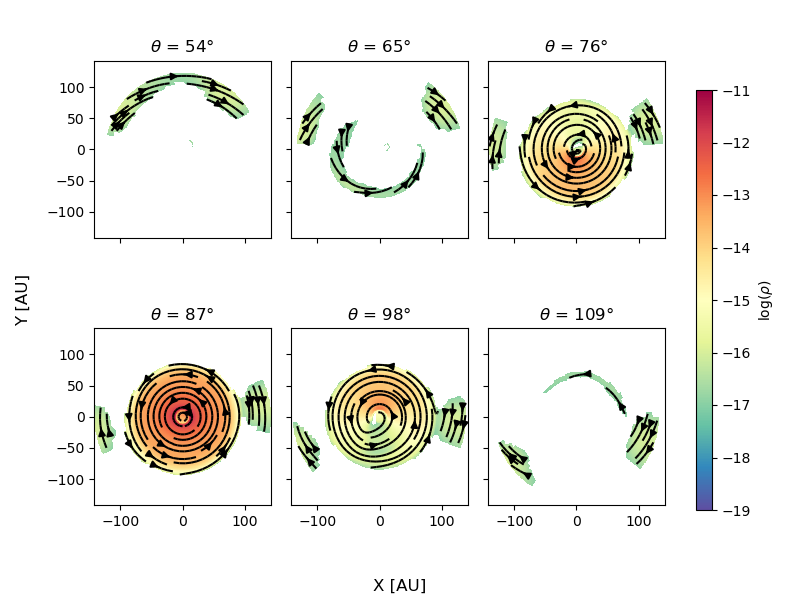
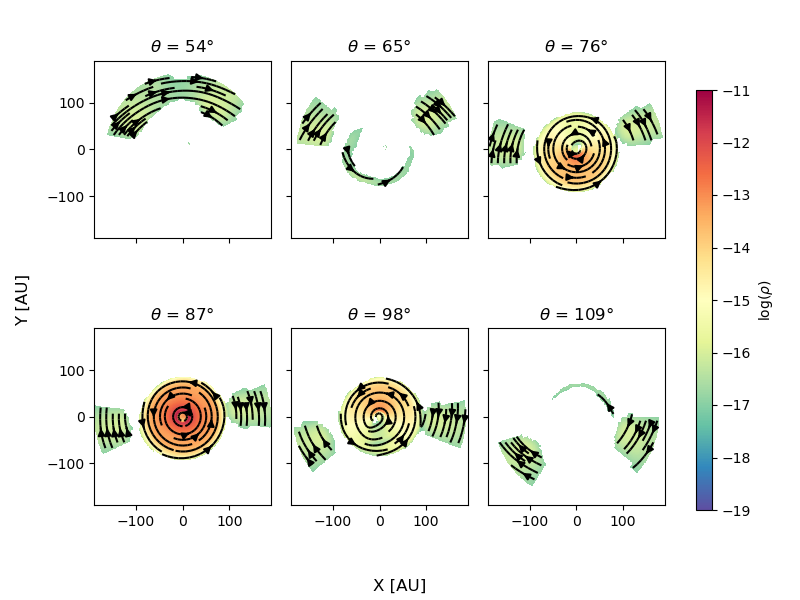
vel streamlines plots modified

diff --git a/analysis.py b/analysis.py
@@ -675,9 +675,9 @@ def calc_whirl(Lx_tot, Ly_tot, Lz_tot, ini_cloud_phi):
 
 def main():
 
-    folder = Path("../cloud_disk_it450_retro_rotY45/")                        # Folder with the output files
-    # folder = Path("../fargo3d/outputs/cloud_disk_it450_retro_rotY45")         # Folder with the output files (BinAC2)
-    fig_imgs = Path("cloud_disk_it450_retro_rotY45/imgs/")                    # Folder to save images
+    folder = Path("../cloud_disk_it450_rotX45/")                        # Folder with the output files
+    # folder = Path("../fargo3d/outputs/cloud_disk_it450_rotX45")         # Folder with the output files (BinAC2)
+    fig_imgs = Path("cloud_disk_it450_rotX45/imgs/")                    # Folder to save images
     it = 450                                                       # FARGO snapshot of interest
     sim_name = str(fig_imgs).split('/')[0]                         # Simulation name (for plot labels)
     
@@ -759,7 +759,7 @@ def main():
 
     # 2D visualizations
     # irad = -1
-    irad = np.where(domains["r"]/au < 350)[0][-1]
+    irad = np.where(domains["r"]/au < 200)[0][-1]
     iphi = 0
     itheta = int(7*len(domains["theta"])/15)
     # print(itheta)
@@ -817,9 +817,9 @@ def main():
     # plotly_quiver3D(X_c[warp_ids][stagger_ids]/au, Y_c[warp_ids][stagger_ids]/au, Z_c[warp_ids][stagger_ids]/au, (vx_c[warp_ids]/vsph.mean())[stagger_ids], (vy_c[warp_ids]/vsph.mean())[stagger_ids], (vz_c[warp_ids]/vsph.mean())[stagger_ids], savefig=False, figfolder=f'{fig_imgs}/plotly_vel_thresh{warp_thresh}_it{it}.png', showfig=True)
 
     # Disk velocity streamline plots at different theta values
-    # targets = np.array([60, 70, 80, 90, 100, 110])   
-    # ithetas = [np.abs(np.rad2deg(domains["theta"]) - t).argmin() for t in targets]
-    # velocity_streamlines(X_c, Y_c, vx_c_warp, vy_c_warp, rho_c_warp, ithetas, irad, savefig=True, figfolder=f'{fig_imgs}/vel_streamlines_thresh{warp_thresh}_it{it}.png', showfig=True)
+    targets = np.array([60, 70, 80, 90, 100, 110])   
+    ithetas = [np.abs(np.rad2deg(domains["theta"]) - t).argmin() for t in targets]
+    velocity_streamlines(X_c, Y_c, vx_c_warp, vy_c_warp, rho_c_warp, ithetas, irad, savefig=True, figfolder=f'{fig_imgs}/vel_streamlines_thresh{warp_thresh}_it{it}.png', showfig=True)
 
     # quiver_plot_3d(X_c[warp_ids]/au, Y_c[warp_ids]/au, Z_c[warp_ids]/au, vx_c[warp_ids], vy_c[warp_ids], vz_c[warp_ids], stagger=10, length=30, title=f"{sim_name}: velocities {int(calc_simtime(it))} kyr", colorbarlabel="velocities", savefig=False, figfolder=f'../warp_vel_thresh{warp_thresh}_it{it}.png', azim=-90, elev=-178, logmag=True, ignorecol=False)
 
